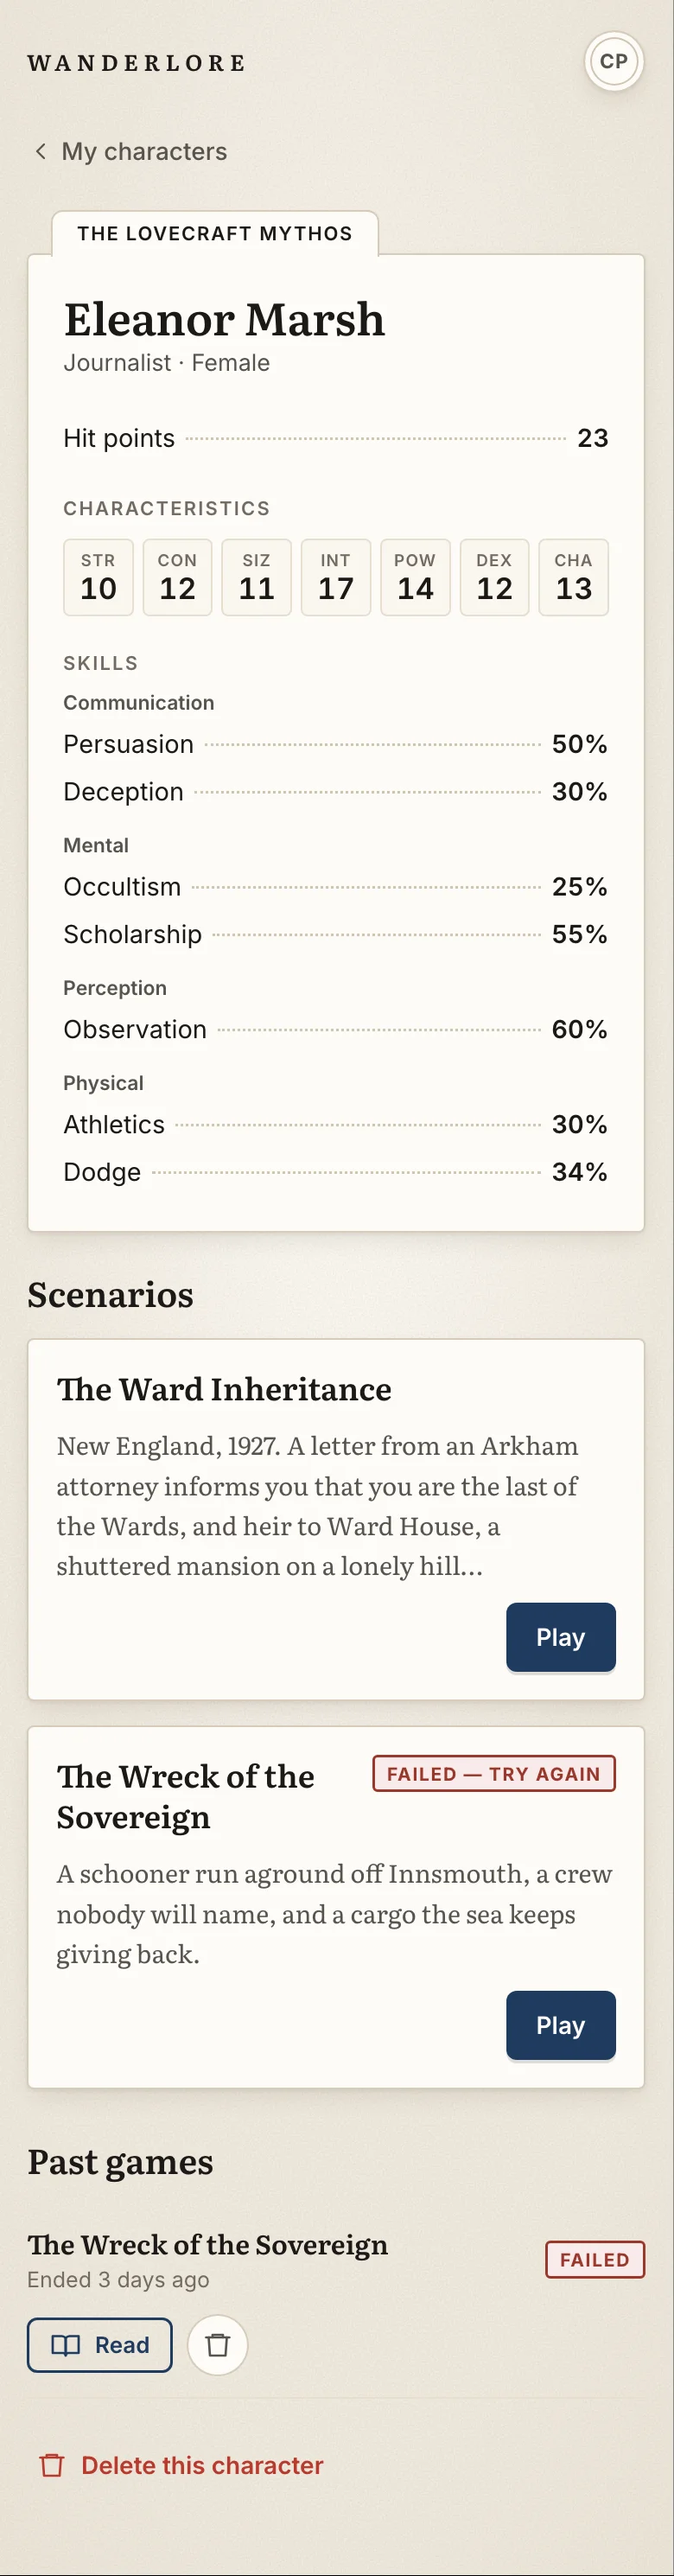
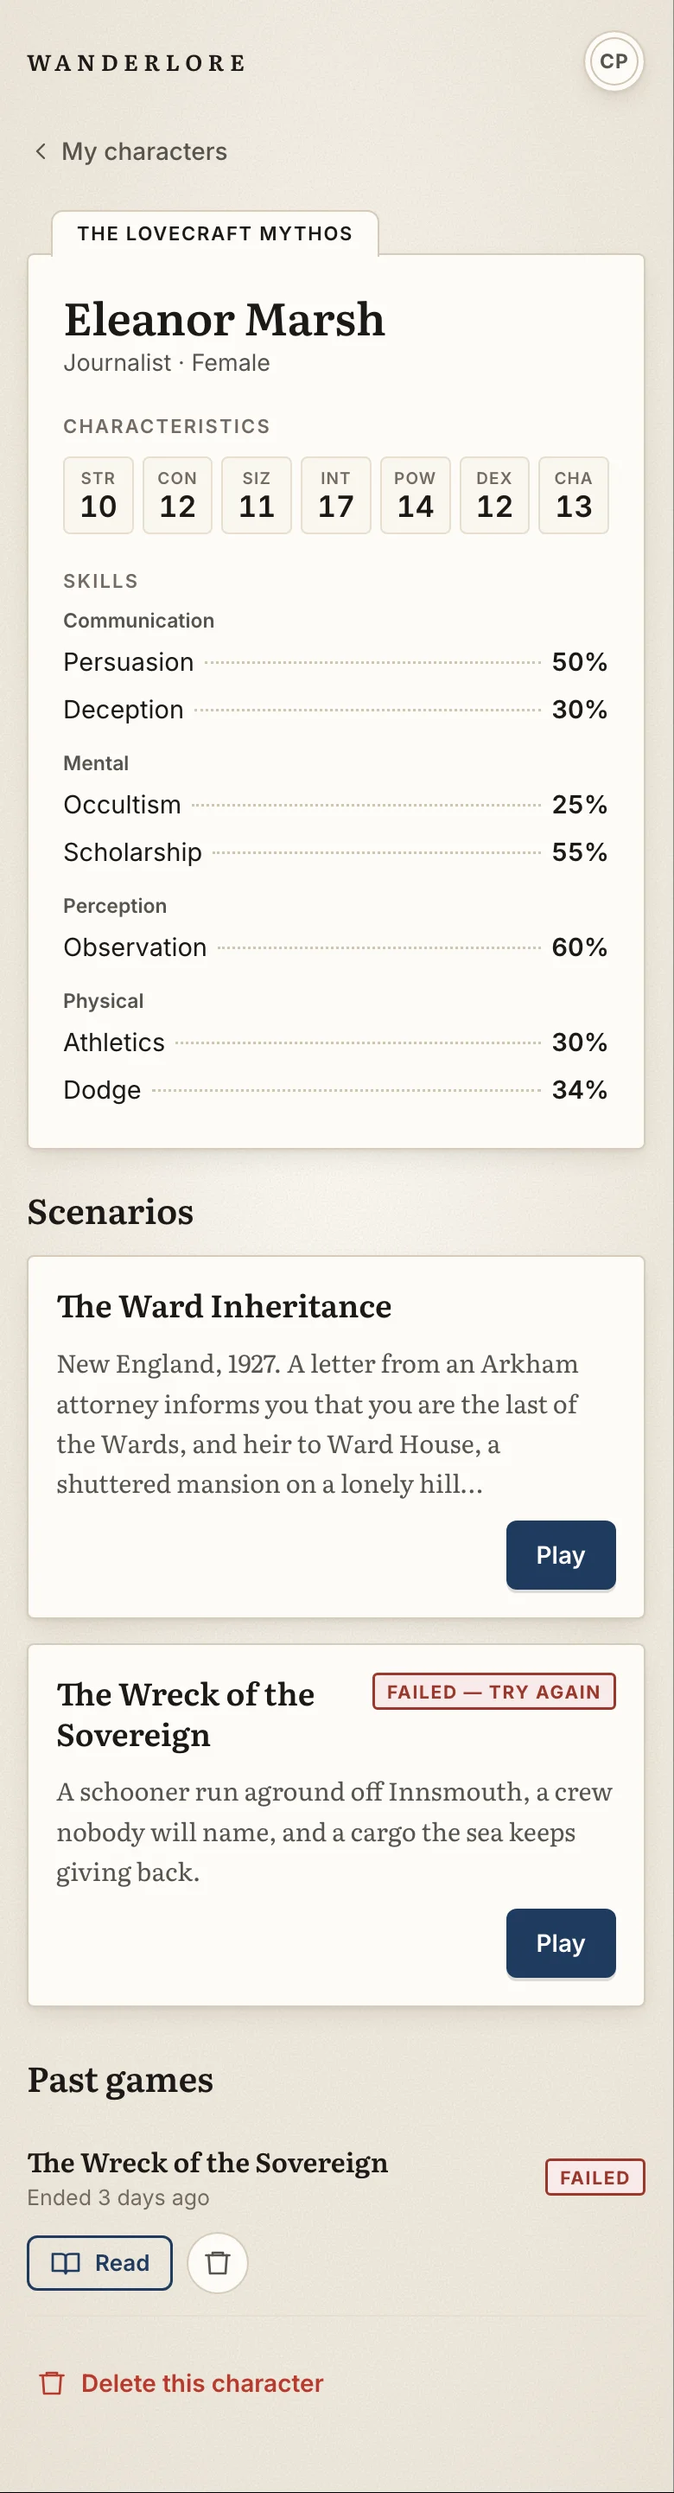
docs(frontend): drop hit points from a character's sheet outside a game
Hit points only exist within a game: the character page shows them on the
current game's card, never on the sheet.

diff --git a/apps/frontend/design/s3b-abandon.html b/apps/frontend/design/s3b-abandon.html
@@ -32,8 +32,7 @@
   <div class="charpage">
     <article class="char"><span class="tab on">The Three Musketeers</span><div class="card sheetcard">
   <div class="who"><h1 class="h1">Armand de Lisle</h1><p>Gascon gentleman · Male</p></div>
-  <div class="block"><div class="lead">Hit points<b>14</b></div></div>
-  <div class="block"><span class="label">Characteristics</span><div class="stats"><div class="stat"><small>STR</small><b>13</b></div><div class="stat"><small>CON</small><b>6</b></div><div class="stat"><small>SIZ</small><b>8</b></div><div class="stat"><small>INT</small><b>15</b></div><div class="stat"><small>POW</small><b>11</b></div><div class="stat"><small>DEX</small><b>16</b></div><div class="stat"><small>CHA</small><b>14</b></div></div></div>
+    <div class="block"><span class="label">Characteristics</span><div class="stats"><div class="stat"><small>STR</small><b>13</b></div><div class="stat"><small>CON</small><b>6</b></div><div class="stat"><small>SIZ</small><b>8</b></div><div class="stat"><small>INT</small><b>15</b></div><div class="stat"><small>POW</small><b>11</b></div><div class="stat"><small>DEX</small><b>16</b></div><div class="stat"><small>CHA</small><b>14</b></div></div></div>
   <div class="block"><span class="label">Skills</span><div class="skills"><div><h4>Combat</h4><div class="lead">Swordsmanship<b>55%</b></div><div class="lead">Marksmanship<b>30%</b></div></div><div><h4>Communication</h4><div class="lead">Persuasion<b>45%</b></div><div class="lead">Etiquette<b>35%</b></div><div class="lead">Deception<b>25%</b></div></div><div><h4>Manipulation</h4><div class="lead">First Aid<b>30%</b></div></div><div><h4>Perception</h4><div class="lead">Observation<b>40%</b></div></div><div><h4>Physical</h4><div class="lead">Athletics<b>45%</b></div><div class="lead">Dodge<b>42%</b></div><div class="lead">Stealth<b>30%</b></div></div></div></div>
 </div></article>
     <div class="section" style="gap:28px">

diff --git a/apps/frontend/design/s3-character.html b/apps/frontend/design/s3-character.html
@@ -32,8 +32,7 @@
   <div class="charpage">
     <article class="char"><span class="tab on">The Lovecraft Mythos</span><div class="card sheetcard">
   <div class="who"><h1 class="h1">Eleanor Marsh</h1><p>Journalist · Female</p></div>
-  <div class="block"><div class="lead">Hit points<b>23</b></div></div>
-  <div class="block"><span class="label">Characteristics</span><div class="stats"><div class="stat"><small>STR</small><b>10</b></div><div class="stat"><small>CON</small><b>12</b></div><div class="stat"><small>SIZ</small><b>11</b></div><div class="stat"><small>INT</small><b>17</b></div><div class="stat"><small>POW</small><b>14</b></div><div class="stat"><small>DEX</small><b>12</b></div><div class="stat"><small>CHA</small><b>13</b></div></div></div>
+    <div class="block"><span class="label">Characteristics</span><div class="stats"><div class="stat"><small>STR</small><b>10</b></div><div class="stat"><small>CON</small><b>12</b></div><div class="stat"><small>SIZ</small><b>11</b></div><div class="stat"><small>INT</small><b>17</b></div><div class="stat"><small>POW</small><b>14</b></div><div class="stat"><small>DEX</small><b>12</b></div><div class="stat"><small>CHA</small><b>13</b></div></div></div>
   <div class="block"><span class="label">Skills</span><div class="skills"><div><h4>Communication</h4><div class="lead">Persuasion<b>50%</b></div><div class="lead">Deception<b>30%</b></div></div><div><h4>Mental</h4><div class="lead">Occultism<b>25%</b></div><div class="lead">Scholarship<b>55%</b></div></div><div><h4>Perception</h4><div class="lead">Observation<b>60%</b></div></div><div><h4>Physical</h4><div class="lead">Athletics<b>30%</b></div><div class="lead">Dodge<b>34%</b></div></div></div></div>
 </div></article>
     <div class="section" style="gap:28px">

diff --git a/apps/frontend/design/src/screens.js b/apps/frontend/design/src/screens.js
@@ -209,17 +209,16 @@ const home = (menu = false) => `<div class="app">${appTop(menu)}
   ${CREDIT}
 </div>`;
 
-const sheetCard = (c, world, hpTotal) => `<article class="char"><span class="tab on">${world}</span><div class="card sheetcard">
+const sheetCard = (c, world) => `<article class="char"><span class="tab on">${world}</span><div class="card sheetcard">
   <div class="who"><h1 class="h1">${c.name}</h1><p>${c.sub}</p></div>
-  <div class="block"><div class="lead">Hit points<b>${hpTotal}</b></div></div>
-  <div class="block"><span class="label">Characteristics</span>${stats(c)}</div>
+    <div class="block"><span class="label">Characteristics</span>${stats(c)}</div>
   <div class="block"><span class="label">Skills</span>${skills(c)}</div>
 </div></article>`;
 
 const eleanorPage = () => `<div class="app">${appTop()}
   <a class="back" href="#">${ic('back')}My characters</a>
   <div class="charpage">
-    ${sheetCard(ELEANOR, 'The Lovecraft Mythos', 23)}
+    ${sheetCard(ELEANOR, 'The Lovecraft Mythos')}
     <div class="section" style="gap:28px">
       <section class="section"><h2 class="h2">Scenarios</h2>
         <article class="card scen"><div class="head"><h3 class="h3">The Ward Inheritance</h3></div>
@@ -241,7 +240,7 @@ const eleanorPage = () => `<div class="app">${appTop()}
 const armandPage = () => `<div class="app">${appTop()}
   <a class="back" href="#">${ic('back')}My characters</a>
   <div class="charpage">
-    ${sheetCard(ARMAND, 'The Three Musketeers', 14)}
+    ${sheetCard(ARMAND, 'The Three Musketeers')}
     <div class="section" style="gap:28px">
       <section class="section"><h2 class="h2">Current game</h2>
         <div class="card scen"><div class="playing" style="background:none;border:0;padding:0">

diff --git a/apps/frontend/design/README.md b/apps/frontend/design/README.md
@@ -63,9 +63,6 @@ traduction du front (`src/i18n/locales/en/`) et du contenu des Trois Mousquetair
 
 - **Libellé nouveau** : « Chance » devant le total de la carte du jet en direct (`g2`, `g3`).
   Il demande une clé de traduction.
-- **Points de vie d'un personnage hors partie** (`s3`, `s3b` : « Hit points 23 ») : le front ne
-  les calcule pas. Le total doit venir de l'API du personnage ; s'il n'y est pas, l'ajouter côté
-  backend ou retirer la ligne (principe 1).
 - **Lien de retour** sur desktop et dans la fiche mobile : la maquette affiche le nom du
   personnage (« ‹ Armand de Lisle »), le front actuel « Character page ». Le nom vient du
   contenu ; garder « Character page » comme libellé accessible.
